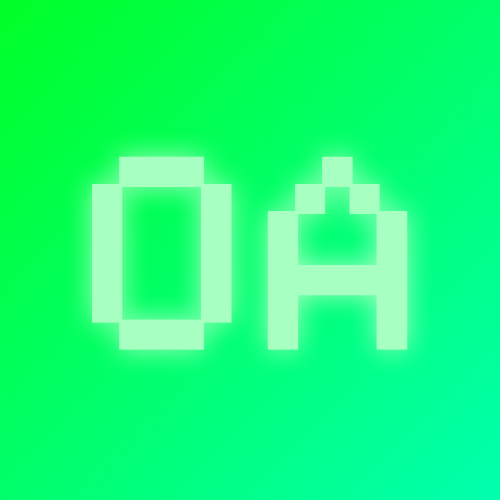
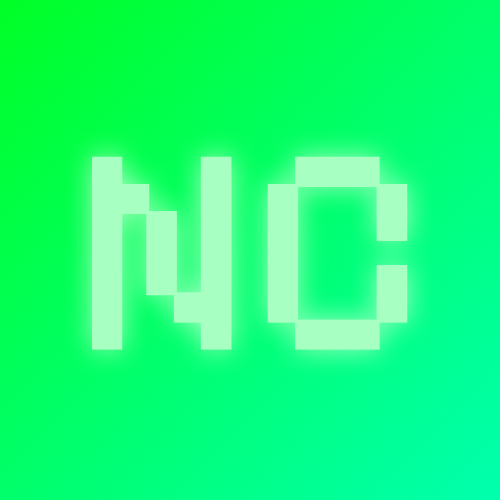
Rebrand part 2

Changed region(s): [[0.15, 0.27, 0.84, 0.75], [0.51, 0.27, 0.84, 0.45]]

diff --git a/README.md b/README.md
@@ -5,7 +5,6 @@ The new repo for building OptiArk packs, all old versions that are not 1.21.11 a
 The current maintiner of Nvidium says that they are going to try to get an OpenGL implementation of the mod working for 26.2, but also said that wouldnt come out for a while, vulkanmod on the otherhand has no current plans for 26.2 support as what i have seen as 26.2 implements its own Vulkan API. So those 2 packs will most likley stay un-updated for a while.
 
 # 26.2 Unsupported/Disabled Mods:
-- Iris (Disabled becuase of incompatibility with the newest Sodium version)
 - Krypton
 
 # Extra Notes:
